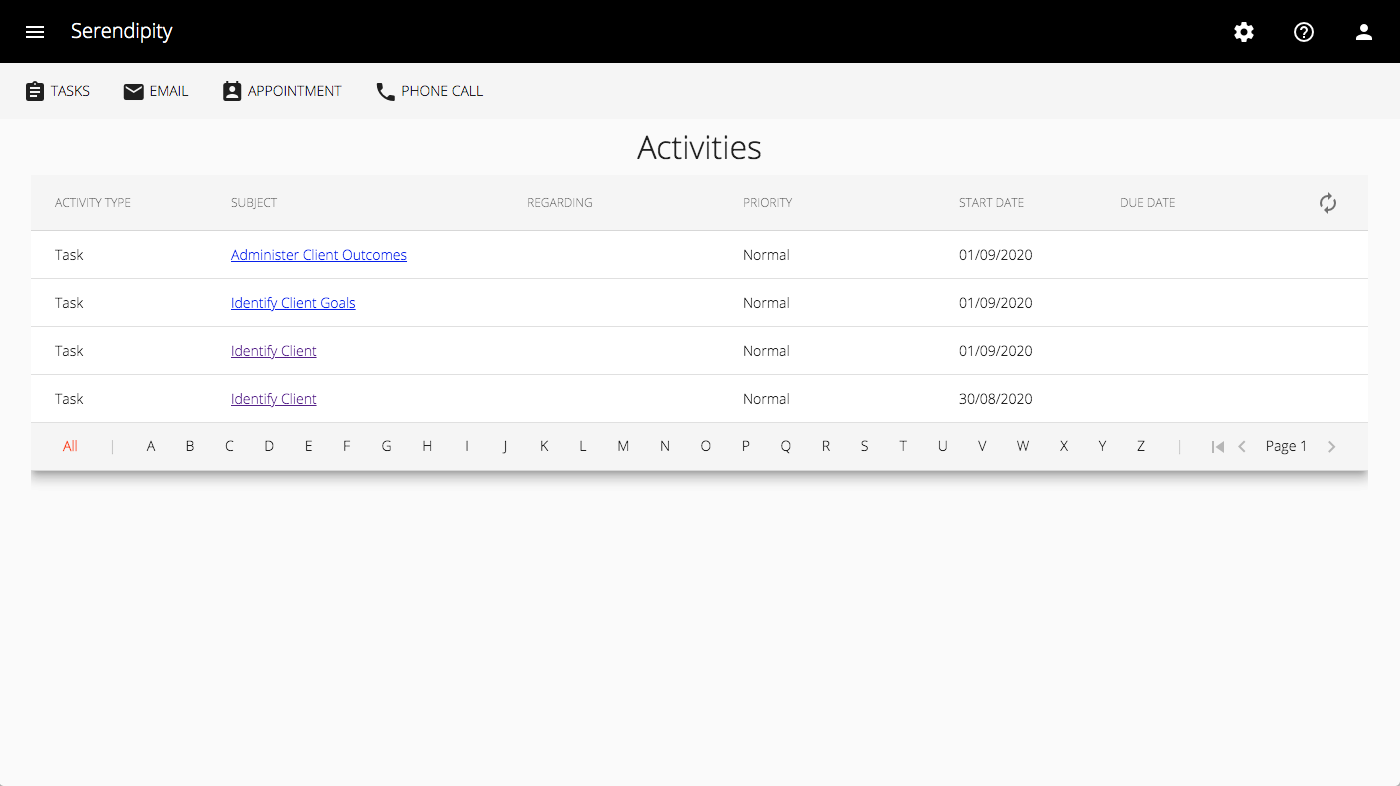
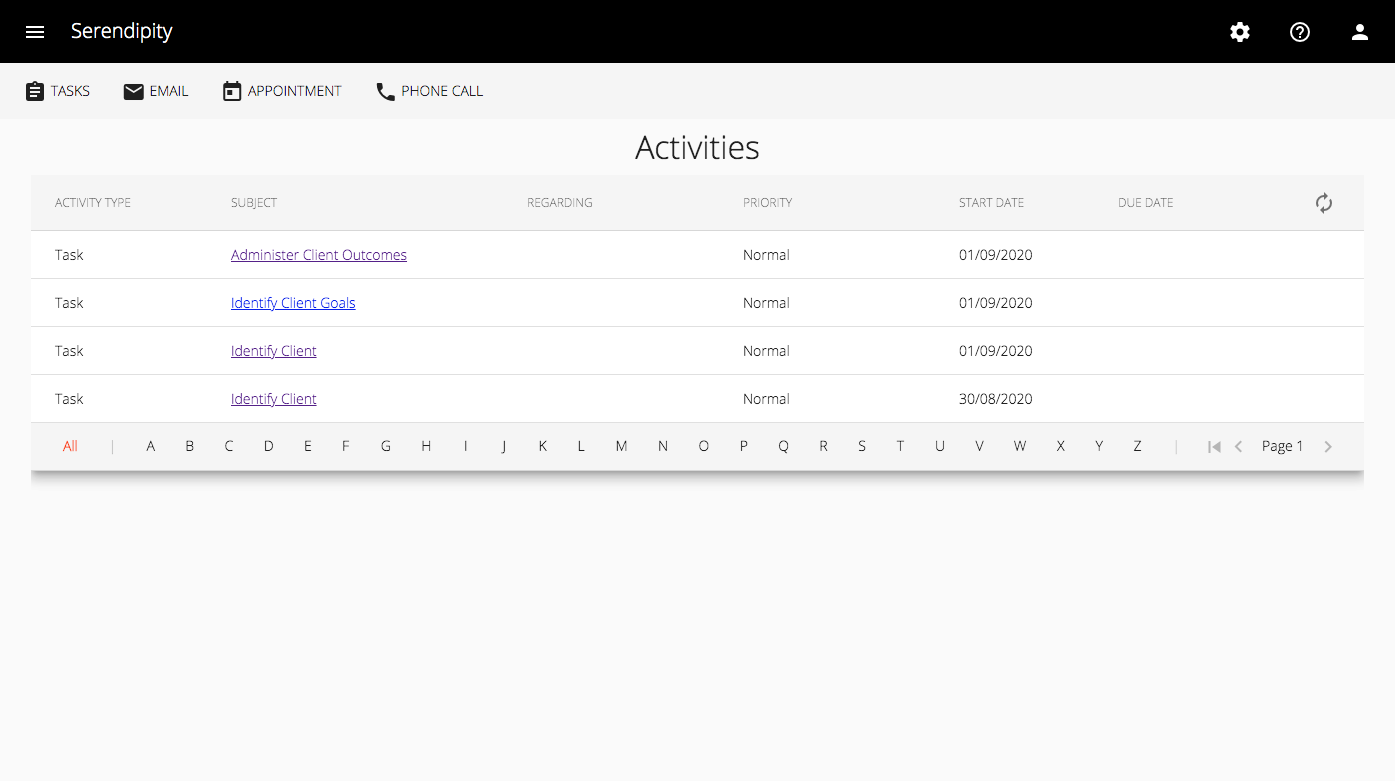
Updated the Flowable Task component

diff --git a/projects/work/src/lib/components/activities/activities.component.html b/projects/work/src/lib/components/activities/activities.component.html
@@ -11,7 +11,7 @@
   </button>
 
   <button mat-button class="crm-command-bar-button" (click)="onAppointment()">
-    <mat-icon> perm_contact_calendar </mat-icon>
+    <mat-icon> today </mat-icon>
     {{ 'APPOINTMENT_COMMAND_BAR_BUTTON' | translate }}
   </button>
 

diff --git a/projects/work/src/lib/components/tasks/tasks.component.html b/projects/work/src/lib/components/tasks/tasks.component.html
@@ -11,7 +11,7 @@
   </button>
 
   <button mat-button class="crm-command-bar-button">
-    <mat-icon> perm_contact_calendar </mat-icon>
+    <mat-icon> today </mat-icon>
     {{ 'APPOINTMENT_COMMAND_BAR_BUTTON' | translate }}
   </button>
 
